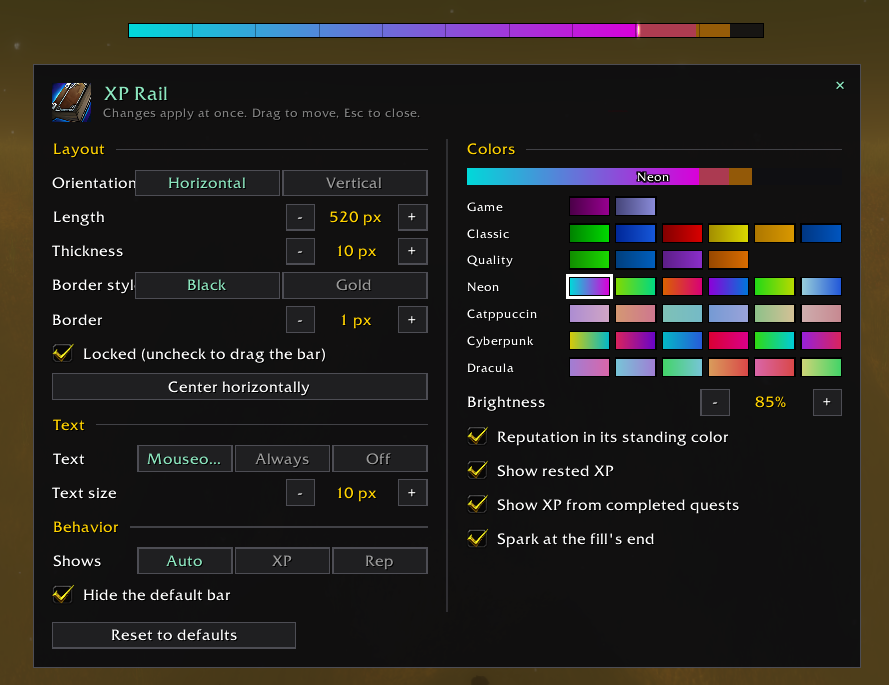
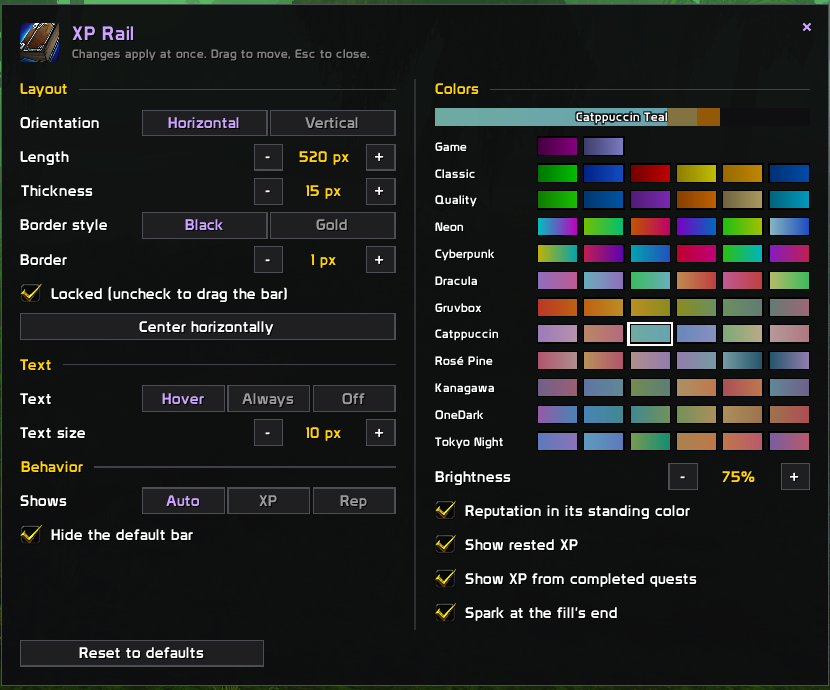
XP Rail 1.1: new color schemes, lavender window
Gruvbox, Rosé Pine, Kanagawa, OneDark and Tokyo Night rows, Artifact and
Heirloom in the Quality row, rows in the shared order, and a lavender
settings window like the other addons. New options screenshot.

diff --git a/README.md b/README.md
@@ -16,9 +16,10 @@ It fits right in with the default UI.
   vertical.
 - **Movable:** uncheck "Locked" (or `/xprail unlock`) and drag it anywhere.
 - **Colors:** the game's own XP purple, your class color, Classic bar colors (Health,
-  Mana, Rage, Energy, Cast bar, Rested), item quality colors, and the Neon,
-  Catppuccin, Cyberpunk and Dracula sets from Cooldown Skin. Reputation can keep
-  its standing color (red for Hostile, green for Friendly and so on).
+  Mana, Rage, Energy, Cast bar, Rested), item quality colors (Uncommon to
+  Heirloom), and the Neon, Cyberpunk, Dracula, Gruvbox, Catppuccin, Rosé Pine,
+  Kanagawa, OneDark and Tokyo Night sets, the same as in Cooldown Skin. Reputation
+  can keep its standing color (red for Hostile, green for Friendly and so on).
 - **Border:** thin black, or gold like the default unit frames.
 - **Tooltip** with the exact numbers, XP to the next level, rested and quest XP,
   this session's XP per hour and the time to level up.

diff --git a/CHANGELOG.md b/CHANGELOG.md
@@ -1,5 +1,12 @@
 # XP Rail changelog
 
+## 1.1
+
+- New color schemes: **Gruvbox, Rosé Pine, Kanagawa, OneDark and Tokyo Night**.
+- The Quality row now also has **Artifact** and **Heirloom**.
+- The color rows are in the same order as in the author's other addons.
+- The settings window is lavender instead of mint, the same look as the author's other addons.
+
 ## 1.0.1
 
 - Minor fixes.
